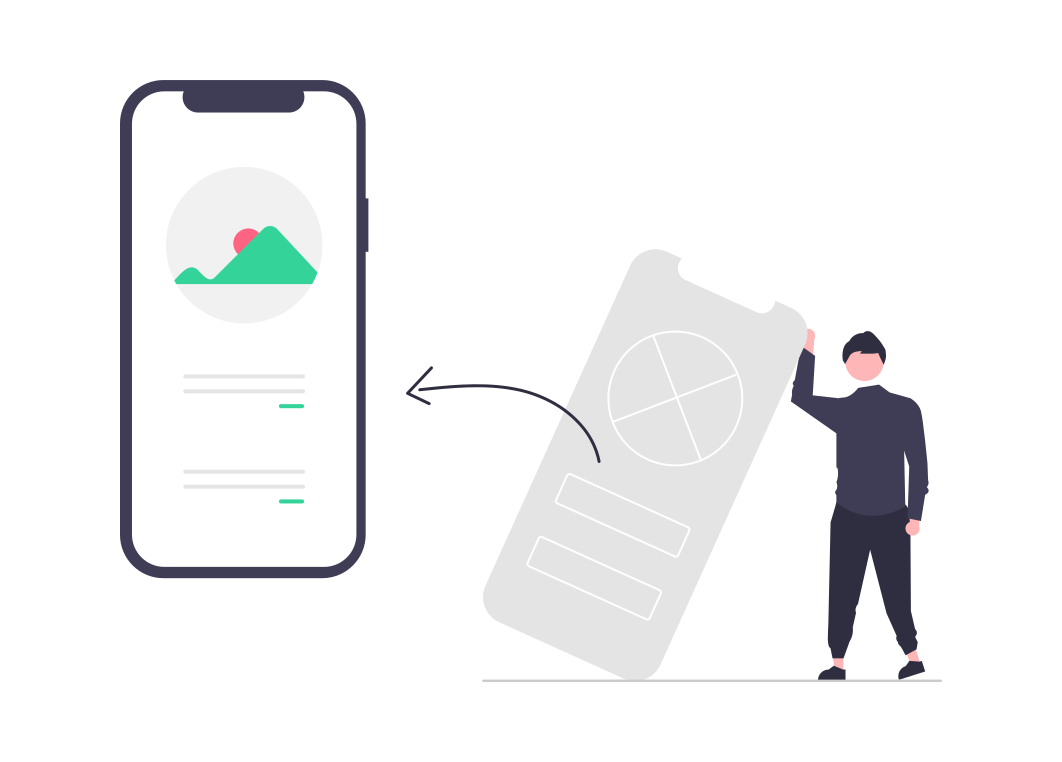
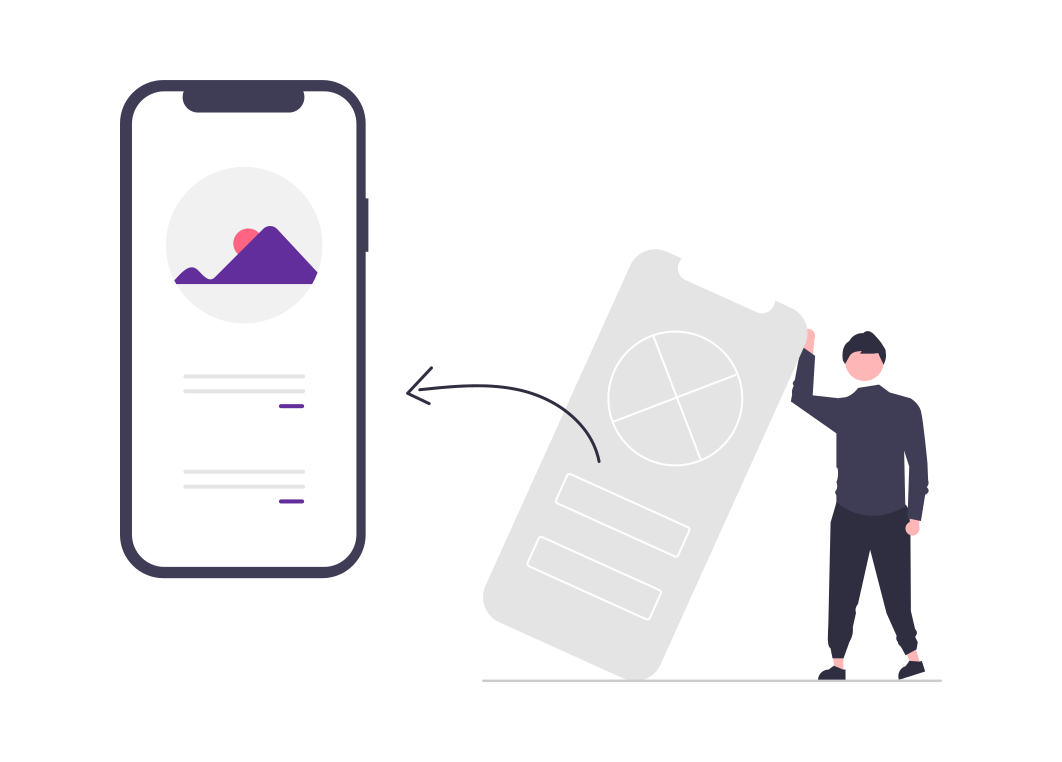
added font family, extra content and profile and change theme color

Changed region(s): [[0.1554, 0.3018, 0.3107, 0.3924], [0.2486, 0.6339, 0.2797, 0.664], [0.2486, 0.5131, 0.2797, 0.5433]]

diff --git a/src/app/home/feature/landing-page/landing-page.component.html b/src/app/home/feature/landing-page/landing-page.component.html
@@ -1,100 +1,142 @@
 <!-- Main Content -->
- <main id="content"> 
+<main id="content"> 
     <!-- Header --> 
-     <div class="overflow-hidden" #landing> 
-      <header class="flex flex-wrap md:justify-start md:flex-nowrap z-50 w-full text-sm py-3 md:py-0">
-        <nav class="max-w-[85rem] w-full mx-auto px-4 md:px-6 lg:px-8">
-          <div class="relative md:flex md:items-center md:justify-between">
-            <div class="flex items-center justify-between">
-              <a class="flex-none focus:outline-none focus:opacity-80" (click)="scroll(landing)">
-                <h1 class="text-2xl font-bold lg:text-2xl lg:leading-tight bg-clip-text bg-gradient-to-r from-emerald-400 to-emerald-500 text-transparent hover:text-emerald-600">PORTFOLIO</h1>
-              </a>
-              <!-- Mobile layout icon menu -->
-              <div class="md:hidden">
-                <button type="button" class="hs-collapse-toggle size-9 flex justify-center items-center text-sm font-semibold rounded-lg border border-gray-200 text-gray-800 hover:bg-gray-100 focus:outline-none focus:bg-gray-100 disabled:opacity-50 disabled:pointer-events-none dark:text-white dark:border-neutral-800 dark:hover:bg-neutral-700 dark:focus:bg-neutral-700" id="hs-navbar-page-demo-pricing-collapse" aria-expanded="false" aria-controls="hs-navbar-page-demo-pricing" aria-label="Toggle navigation" data-hs-collapse="#hs-navbar-page-demo-pricing">
-                  <svg class="hs-collapse-open:hidden shrink-0 size-4" xmlns="http://www.w3.org/2000/svg" width="24" height="24" viewBox="0 0 24 24" fill="none" stroke="currentColor" stroke-width="2" stroke-linecap="round" stroke-linejoin="round"><line x1="3" x2="21" y1="6" y2="6"/><line x1="3" x2="21" y1="12" y2="12"/><line x1="3" x2="21" y1="18" y2="18"/></svg>
-                  <svg class="hs-collapse-open:block hidden shrink-0 size-4" xmlns="http://www.w3.org/2000/svg" width="24" height="24" viewBox="0 0 24 24" fill="none" stroke="currentColor" stroke-width="2" stroke-linecap="round" stroke-linejoin="round"><path d="M18 6 6 18"/><path d="m6 6 12 12"/></svg>
-                </button>
-              </div>
+    <header class="sticky top-0 inset-x-0 flex flex-wrap md:justify-start border-b md:flex-nowrap z-50 w-full text-sm py-3 md:py-0 bg-white dark:bg-neutral-900">
+      <nav class="max-w-[85rem] w-full mx-auto px-4 md:px-6 lg:px-8">
+        <div class="relative md:flex md:items-center md:justify-between">
+          <div class="flex items-center justify-between">
+            <a class="flex-none focus:outline-none focus:opacity-80" (click)="scroll(landing)">
+              <h1 class="text-2xl font-bold lg:text-2xl lg:leading-tight bg-clip-text bg-gradient-to-r from-purple-600 to-violet-500 text-transparent hover:text-violet-600">PORTFOLIO</h1>
+            </a>
+            <!-- Mobile layout icon menu -->
+            <div class="md:hidden">
+              <button type="button" class="hs-collapse-toggle size-9 flex justify-center items-center text-sm font-semibold rounded-lg border border-gray-200 text-gray-800 hover:bg-gray-100 focus:outline-none focus:bg-gray-100 disabled:opacity-50 disabled:pointer-events-none dark:text-white dark:border-neutral-800 dark:hover:bg-neutral-700 dark:focus:bg-neutral-700" id="hs-navbar-page-demo-pricing-collapse" aria-expanded="false" aria-controls="hs-navbar-page-demo-pricing" aria-label="Toggle navigation" data-hs-collapse="#hs-navbar-page-demo-pricing">
+                <svg class="hs-collapse-open:hidden shrink-0 size-4" xmlns="http://www.w3.org/2000/svg" width="24" height="24" viewBox="0 0 24 24" fill="none" stroke="currentColor" stroke-width="2" stroke-linecap="round" stroke-linejoin="round"><line x1="3" x2="21" y1="6" y2="6"/><line x1="3" x2="21" y1="12" y2="12"/><line x1="3" x2="21" y1="18" y2="18"/></svg>
+                <svg class="hs-collapse-open:block hidden shrink-0 size-4" xmlns="http://www.w3.org/2000/svg" width="24" height="24" viewBox="0 0 24 24" fill="none" stroke="currentColor" stroke-width="2" stroke-linecap="round" stroke-linejoin="round"><path d="M18 6 6 18"/><path d="m6 6 12 12"/></svg>
+              </button>
             </div>
-            <!-- Menus -->
-            <div id="hs-navbar-page-demo-pricing" class="hidden hs-collapse overflow-hidden transition-all duration-300 basis-full grow md:block" aria-labelledby="hs-navbar-page-demo-pricing-collapse">
-              <div class="overflow-hidden overflow-y-auto max-h-[75vh] [&::-webkit-scrollbar]:w-2 [&::-webkit-scrollbar-thumb]:rounded-full [&::-webkit-scrollbar-track]:bg-gray-100 [&::-webkit-scrollbar-thumb]:bg-gray-300 dark:[&::-webkit-scrollbar-track]:bg-neutral-700 dark:[&::-webkit-scrollbar-thumb]:bg-neutral-500">
-                <div class="flex flex-col gap-x-0 mt-5 divide-y divide-dashed divide-gray-200 md:flex-row md:items-center md:justify-end md:gap-x-7 md:mt-0 md:ps-7 md:divide-y-0 md:divide-solid dark:divide-neutral-700">
-                  <a class="py-3 md:py-6 font-medium text-gray-600 hover:text-gray-500 focus:outline-none focus:text-gray-500 dark:text-neutral-400 dark:hover:text-neutral-500 dark:focus:text-neutral-500" (click)="scroll(landing)" aria-current="page">
-                    Landing
-                  </a>
+          </div>
+          <!-- Menus -->
+          <div id="hs-navbar-page-demo-pricing" class="hidden hs-collapse overflow-hidden transition-all duration-300 basis-full grow md:block" aria-labelledby="hs-navbar-page-demo-pricing-collapse">
+            <div class="overflow-hidden overflow-y-auto max-h-[75vh] [&::-webkit-scrollbar]:w-2 [&::-webkit-scrollbar-thumb]:rounded-full [&::-webkit-scrollbar-track]:bg-gray-100 [&::-webkit-scrollbar-thumb]:bg-gray-300 dark:[&::-webkit-scrollbar-track]:bg-neutral-700 dark:[&::-webkit-scrollbar-thumb]:bg-neutral-500">
+              <div class="flex flex-col gap-x-0 mt-5 divide-y divide-dashed divide-gray-200 md:flex-row md:items-center md:justify-end md:gap-x-7 md:mt-0 md:ps-7 md:divide-y-0 md:divide-solid dark:divide-neutral-700">
+                <a class="py-3 md:py-6 font-medium text-gray-600 hover:text-gray-500 focus:outline-none focus:text-gray-500 dark:text-neutral-400 dark:hover:text-neutral-500 dark:focus:text-neutral-500" (click)="scroll(landing)" aria-current="page">
+                  Landing
+                </a>
 
-                  <a class="py-3 md:py-6 font-medium text-gray-600 hover:text-gray-500 focus:outline-none focus:text-gray-500 dark:text-neutral-400 dark:hover:text-neutral-500 dark:focus:text-neutral-500">
-                    About me
-                  </a>
+                <a class="py-3 md:py-6 font-medium text-gray-600 hover:text-gray-500 focus:outline-none focus:text-gray-500 dark:text-neutral-400 dark:hover:text-neutral-500 dark:focus:text-neutral-500" (click)="scroll(profile)">
+                  Profile
+                </a>
 
-                  <a class="py-3 md:py-6 font-medium text-gray-600 hover:text-gray-500 focus:outline-none focus:text-gray-500 dark:text-neutral-400 dark:hover:text-neutral-500 dark:focus:text-neutral-500">
-                    Project
-                  </a>
+                <a class="py-3 md:py-6 font-medium text-gray-600 hover:text-gray-500 focus:outline-none focus:text-gray-500 dark:text-neutral-400 dark:hover:text-neutral-500 dark:focus:text-neutral-500">
+                  Project
+                </a>
 
-                  <a class="py-3 md:py-6 font-medium text-gray-600 hover:text-gray-500 focus:outline-none focus:text-gray-500 dark:text-neutral-400 dark:hover:text-neutral-500 dark:focus:text-neutral-500">
-                    Social
-                  </a>
+                <a class="py-3 md:py-6 font-medium text-gray-600 hover:text-gray-500 focus:outline-none focus:text-gray-500 dark:text-neutral-400 dark:hover:text-neutral-500 dark:focus:text-neutral-500">
+                  Work
+                </a>
 
-                  <a class="py-3 md:py-6 font-medium text-gray-600 hover:text-gray-500 focus:outline-none focus:text-gray-500 dark:text-neutral-400 dark:hover:text-neutral-500 dark:focus:text-neutral-500">
-                    Contact
-                  </a>
-                </div>
+                <a class="py-3 md:py-6 font-medium text-gray-600 hover:text-gray-500 focus:outline-none focus:text-gray-500 dark:text-neutral-400 dark:hover:text-neutral-500 dark:focus:text-neutral-500">
+                  Contact
+                </a>
               </div>
             </div>
           </div>
-        </nav>
-      </header>
-     </div>
+        </div>
+      </nav>
+    </header> 
     <!-- End Header -->
 
     <!-- Landing --> 
-    <div class="max-w-[85rem] mx-auto px-4 sm:px-6 lg:px-8 pt-16">
-      <!-- Grid -->
-      <div class="grid md:grid-cols-2 gap-4 md:gap-8 xl:gap-20 md:items-center">
-        <div>
-          <h1 class="block text-3xl font-bold text-gray-800 sm:text-4xl lg:text-6xl lg:leading-tight dark:text-white">Crafting Exceptional <span class="leading-tight font-bold md:leading-tight sm:text-4xl lg:text-6xl lg:leading-tight bg-clip-text bg-gradient-to-r from-emerald-400 to-emerald-500 text-transparent">User Interfaces</span></h1>
-          <p class="mt-3 text-lg text-gray-800 dark:text-neutral-400">Elevate your brand with expertly crafted UI/UX design. I turn complex challenges into intuitive, engaging interfaces that captivate users and drive results. Let’s create something extraordinary together.</p>
+    <div #landing> 
+      <div class="max-w-[85rem] mx-auto px-4 sm:px-6 lg:px-8 pt-16" >
+        <!-- Grid -->
+        <div class="grid md:grid-cols-2 gap-4 md:gap-8 xl:gap-20 md:items-center">
+          <div>
+            <h1 class="block text-3xl font-bold bg-clip-text bg-gradient-to-r  from-gray-800 to-purple-600 text-transparent sm:text-4xl lg:text-6xl lg:leading-tight">Crafting Exceptional 
+              <span class="leading-tight font-bold md:leading-tight sm:text-4xl lg:text-6xl lg:leading-tight bg-clip-text bg-gradient-to-r from-purple-700 to-violet-600 text-transparent">User Interfaces</span>
+            </h1>
+            <p class="mt-3 lg:text-lg text-gray-800 dark:text-neutral-200">
+             I am committed to delivering high-quality UI/UX solutions that drive user satisfaction and business success.
+              </p>
+              <!-- With a passion for creating exceptional digital experiences, -->
+            <!-- Buttons -->
+            <!-- <div class="mt-7 grid gap-3 w-full sm:inline-flex">
+              <a class="py-3 px-4 inline-flex justify-center items-center gap-x-2 text-sm font-medium rounded-lg border border-transparent bg-blue-600 text-white hover:bg-blue-700 focus:outline-none focus:bg-blue-700 disabled:opacity-50 disabled:pointer-events-none">
+                Get started
+                <svg class="shrink-0 size-4" xmlns="http://www.w3.org/2000/svg" width="24" height="24" viewBox="0 0 24 24" fill="none" stroke="currentColor" stroke-width="2" stroke-linecap="round" stroke-linejoin="round"><path d="m9 18 6-6-6-6"/></svg>
+              </a>
+              <a class="py-3 px-4 inline-flex justify-center items-center gap-x-2 text-sm font-medium rounded-lg border border-gray-200 bg-white text-gray-800 shadow-sm hover:bg-gray-50 focus:outline-none focus:bg-gray-50 disabled:opacity-50 disabled:pointer-events-none dark:bg-neutral-900 dark:border-neutral-700 dark:text-white dark:hover:bg-neutral-800 dark:focus:bg-neutral-800">
+                Contact sales team
+              </a>
+            </div> -->
+            <!-- End Buttons --> 
+          </div>
+          <!-- End Col -->
 
-          <!-- Buttons -->
-          <!-- <div class="mt-7 grid gap-3 w-full sm:inline-flex">
-            <a class="py-3 px-4 inline-flex justify-center items-center gap-x-2 text-sm font-medium rounded-lg border border-transparent bg-blue-600 text-white hover:bg-blue-700 focus:outline-none focus:bg-blue-700 disabled:opacity-50 disabled:pointer-events-none">
-              Get started
-              <svg class="shrink-0 size-4" xmlns="http://www.w3.org/2000/svg" width="24" height="24" viewBox="0 0 24 24" fill="none" stroke="currentColor" stroke-width="2" stroke-linecap="round" stroke-linejoin="round"><path d="m9 18 6-6-6-6"/></svg>
-            </a>
-            <a class="py-3 px-4 inline-flex justify-center items-center gap-x-2 text-sm font-medium rounded-lg border border-gray-200 bg-white text-gray-800 shadow-sm hover:bg-gray-50 focus:outline-none focus:bg-gray-50 disabled:opacity-50 disabled:pointer-events-none dark:bg-neutral-900 dark:border-neutral-700 dark:text-white dark:hover:bg-neutral-800 dark:focus:bg-neutral-800">
-              Contact sales team
-            </a>
-          </div> -->
-          <!-- End Buttons --> 
+          <div class="relative ms-4">
+            <img class="w-full rounded-md" src="assets/media-img/design_process.png" alt="Prototype Image">
+            <div class="absolute inset-0 -z-[1] bg-gradient-to-tr from-gray-200 via-white/0 to-white/0 size-full rounded-md mt-4 -mb-4 me-4 -ms-4 lg:mt-6 lg:-mb-6 lg:me-6 lg:-ms-6 dark:from-neutral-800 dark:via-neutral-900/0 dark:to-neutral-900/0"></div>
+            <!-- End SVG-->
+          </div>
+          <!-- End Col -->
         </div>
-        <!-- End Col -->
-
-        <div class="relative ms-4">
-          <img class="w-full rounded-md" src="assets/media-img/design_process.png" alt="Prototype Image">
-          <div class="absolute inset-0 -z-[1] bg-gradient-to-tr from-gray-200 via-white/0 to-white/0 size-full rounded-md mt-4 -mb-4 me-4 -ms-4 lg:mt-6 lg:-mb-6 lg:me-6 lg:-ms-6 dark:from-neutral-800 dark:via-neutral-900/0 dark:to-neutral-900/0"></div>
-          <!-- End SVG-->
-        </div>
-        <!-- End Col -->
+        <!-- End Grid -->
       </div>
-      <!-- End Grid -->
     </div>
     <!-- End Landing -->
+ 
+    <!-- Extra Content -->
 
-    <!-- About Me -->
-    <!-- <div class="relative overflow-hidden pt-28" #about_me>
+    <div class="max-w-[85rem] px-4 pt-10 sm:px-6 lg:px-8 lg:pt-14 mx-auto"> 
+      <!-- Title -->
+      <div class="w-3/3 sm:w-3/3 lg:w-2/3 mx-auto text-center mt-10 md:mt-14 mb-6 lg:mt-24">
+        <h2 class="text-gray-600 dark:text-neutral-400">Elevate your brand with expertly crafted UI/UX design. I turn complex challenges into intuitive, engaging interfaces that captivate users and drive results. Let’s create something extraordinary together.</h2>
+      </div>
+      <!-- End Title -->
+
+      <!-- Tech -->
+      <div class="flex justify-center gap-x-6 sm:gap-x-12 lg:gap-x-24">
+        <svg class="size-16 md:size-16 lg:size-16 mx-auto sm:mx-0 text-gray-500 dark:text-neutral-500" xmlns="http://www.w3.org/2000/svg" viewBox="0 0 384 512">
+          <path d="M14 95.8C14 42.9 56.9 0 109.8 0H274.2C327.1 0 370 42.9 370 95.8C370 129.3 352.8 158.8 326.7 175.9C352.8 193 370 222.5 370 256C370 308.9 327.1 351.8 274.2 351.8H272.1C247.3 351.8 224.7 342.4 207.7 326.9V415.2C207.7 468.8 163.7 512 110.3 512C57.5 512 14 469.2 14 416.2C14 382.7 31.2 353.2 57.2 336.1C31.2 319 14 289.5 14 256C14 222.5 31.2 193 57.2 175.9C31.2 158.8 14 129.3 14 95.8zM176.3 191.6H109.8C74.2 191.6 45.4 220.4 45.4 256C45.4 291.4 74 320.2 109.4 320.4C109.5 320.4 109.7 320.4 109.8 320.4H176.3V191.6zM207.7 256C207.7 291.6 236.5 320.4 272.1 320.4H274.2C309.7 320.4 338.6 291.6 338.6 256C338.6 220.4 309.7 191.6 274.2 191.6H272.1C236.5 191.6 207.7 220.4 207.7 256zM109.8 351.8C109.7 351.8 109.5 351.8 109.4 351.8C74 352 45.4 380.8 45.4 416.2C45.4 451.7 74.6 480.6 110.3 480.6C146.6 480.6 176.3 451.2 176.3 415.2V351.8H109.8zM109.8 31.4C74.2 31.4 45.4 60.2 45.4 95.8C45.4 131.4 74.2 160.2 109.8 160.2H176.3V31.4H109.8zM207.7 160.2H274.2C309.7 160.2 338.6 131.4 338.6 95.8C338.6 60.2 309.7 31.4 274.2 31.4H207.7V160.2z" fill="currentColor"/>
+        </svg>
+        <svg class="size-16 md:size-16 lg:size-16 mx-auto sm:mx-0 text-gray-500 dark:text-neutral-500" xmlns="http://www.w3.org/2000/svg" viewBox="0 0 384 512">
+          <path d="M0 32l34.9 395.8L191.5 480l157.6-52.2L384 32H0zm308.2 127.9H124.4l4.1 49.4h175.6l-13.6 148.4-97.9 27v.3h-1.1l-98.7-27.3-6-75.8h47.7L138 320l53.5 14.5 53.7-14.5 6-62.2H84.3L71.5 112.2h241.1l-4.4 47.7z" fill="currentColor"/>
+        </svg>
+        <svg class="size-16 md:size-16 lg:size-16 mx-auto sm:mx-0 text-gray-500 dark:text-neutral-500" xmlns="http://www.w3.org/2000/svg" viewBox="0 0 384 512">
+          <path d="M0 32l34.9 395.8L192 480l157.1-52.2L384 32H0zm313.1 80l-4.8 47.3L193 208.6l-.3 .1h111.5l-12.8 146.6-98.2 28.7-98.8-29.2-6.4-73.9h48.9l3.2 38.3 52.6 13.3 54.7-15.4 3.7-61.6-166.3-.5v-.1l-.2 .1-3.6-46.3L193.1 162l6.5-2.7H76.7L70.9 112h242.2z" fill="currentColor"/>
+        </svg>
+        <svg class="size-16 md:size-16 lg:size-16 mx-auto sm:mx-0 text-gray-500 dark:text-neutral-500" xmlns="http://www.w3.org/2000/svg" viewBox="0 0 448 512">
+          <path d="M185.7 268.1h76.2l-38.1-91.6-38.1 91.6zM223.8 32L16 106.4l31.8 275.7 176 97.9 176-97.9 31.8-275.7zM354 373.8h-48.6l-26.2-65.4H168.6l-26.2 65.4H93.7L223.8 81.5z" fill="currentColor"/>
+        </svg>
+      </div>
+      <!-- End Tech -->
+    </div>
+    <!-- End Extra Content -->
+
+    <!-- Profile -->
+    <div class="relative overflow-hidden pt-10">
       <div class="max-w-[85rem] px-4 py-12 sm:px-6 lg:px-8 lg:py-16 mx-auto"> 
          
-        <div class="lg:grid lg:grid-cols-6 lg:gap-8 lg:items-center">
+        <div class="lg:grid lg:grid-cols-6 lg:gap-8 lg:items-center" #profile>
           <div class="hidden lg:block lg:col-span-2">
             <img class="rounded-xl" src="assets/profile-img/grad-pic.jpg" alt="grad-pic">
           </div> 
   
           <div class="lg:col-span-4"> 
+            <a href="https://www.facebook.com/DouglasBlanes/" target="_blank"> 
+              <div class="flex items-center mb-4"> 
+                <svg class="w-10 h-auto"  xmlns="http://www.w3.org/2000/svg" viewBox="0 0 448 512">
+                  <path d="M64 32C28.7 32 0 60.7 0 96V416c0 35.3 28.7 64 64 64h98.2V334.2H109.4V256h52.8V222.3c0-87.1 39.4-127.5 125-127.5c16.2 0 44.2 3.2 55.7 6.4V172c-6-.6-16.5-1-29.6-1c-42 0-58.2 15.9-58.2 57.2V256h83.6l-14.4 78.2H255V480H384c35.3 0 64-28.7 64-64V96c0-35.3-28.7-64-64-64H64z" fill="#0c87fa"/>
+                </svg>
+                <h3 class="ms-2 text-2xl font-bold text-gray-800 sm:text-2xl lg:text-2xl">facebook</h3>
+              </div>
+            </a>
             <blockquote>
-              <p class="text-xl font-medium text-gray-800 lg:text-2xl lg:leading-normal dark:text-neutral-200">
-                A confident and highly disciplined IT graduate with fundamental knowledge of software design.
+              <p class="mt-3 lg:text-lg text-gray-800 dark:text-neutral-200">
+                As a skilled UI/UX Developer with three years of experience, I excel in designing engaging user interface templates and transforming them into functional HTML, 
+                CSS, and Angular code. My expertise ensures that every project is both visually appealing and highly interactive, meeting user needs and business goals. 
+                I am passionate about creating user-centric designs and providing exceptional support to our users.
               </p>
   
               <footer class="mt-6">
@@ -116,7 +158,17 @@
           </div> 
         </div> 
       </div>
-    </div> -->
+    </div>
+    <!-- End Profile -->
 
+    <!-- Project -->
+
+    <!-- End Project -->
+
+    <!-- Work -->
+    <!-- End Work -->
+
+    <!-- Contact -->
+    <!-- End Contact -->
  </main>
  

diff --git a/tailwind.config.js b/tailwind.config.js
@@ -3,6 +3,11 @@ module.exports = {
   content: ["./src/**/*.{html,js}"],
   darkMode: 'class',
   theme: {
+    fontFamily: {
+       sans: [
+        'ui-monospace, SFMono-Regular, Menlo, Monaco, Consolas, "Liberation Mono", "Courier New", monospace',
+      ],
+    },
     extend: {},
   },
   plugins: [

diff --git a/src/app/home/feature/landing-page/landing-page.component.ts b/src/app/home/feature/landing-page/landing-page.component.ts
@@ -8,6 +8,6 @@ import { Component } from '@angular/core';
 export class LandingPageComponent {
 
   scroll(el: HTMLElement) {
-    el.scrollIntoView();
+    el.scrollIntoView({ behavior: "smooth", block: "start", inline: "nearest" });
   }
 }
